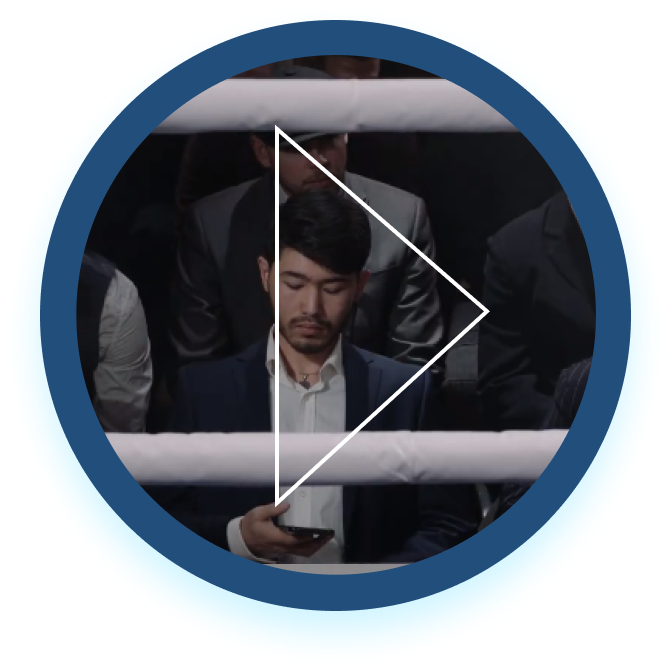
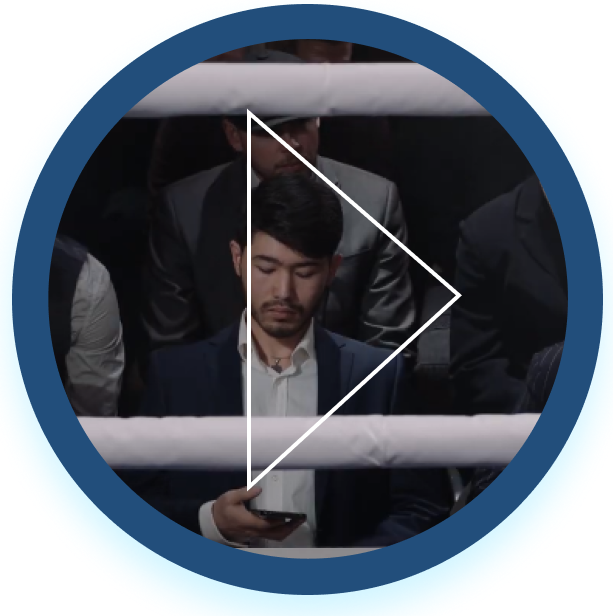
main screen ui

diff --git a/build/css/all_style.css b/build/css/all_style.css
@@ -86,4 +86,4 @@
  * Add the correct display in IE 10+.
  */template{display:none}/**
  * Add the correct display in IE 10.
- */[hidden]{display:none}body{max-width:100%;overflow-x:hidden}*,*:after,*:before{box-sizing:border-box;font-family:'Montserrat',sans-serif;padding:0;margin:0;text-decoration:none;color:inherit;max-width:100%;font-weight:300;outline:none}ul li{list-style:none}.wrap{width:100%;display:-webkit-box;display:flex;-webkit-box-orient:vertical;-webkit-box-direction:normal;flex-direction:column;-webkit-box-align:center;align-items:center}.container{width:100%;max-width:1620px}.container_small{max-width:1330px}.btn_defaul{background:#78A32F;border-radius:3px;padding:15px 25px;color:#fff;font-weight:bold;font-size:16px;-webkit-transition:.3s;transition:.3s}.btn_defaul:hover{-webkit-transform:scale(1.05);transform:scale(1.05);-webkit-transition:.3s;transition:.3s}.text_xs{font-size:18px}.text_s{font-size:24px}.text_m{font-size:30px}.text_l{font-size:36px}.text_xl{font-size:48px}header{display:-webkit-box;display:flex;-webkit-box-pack:center;justify-content:center;position:absolute;height:100px;position:absolute;left:0;top:0;color:#fff}.header-content{display:-webkit-box;display:flex;-webkit-box-align:center;align-items:center;-webkit-box-pack:justify;justify-content:space-between}.header-content .logo-lang{display:-webkit-box;display:flex;-webkit-box-align:center;align-items:center}.header-content .logo-lang__logo{margin-right:50px}.header-content .nav-menu__list{display:-webkit-box;display:flex}.header-content .nav-menu__item{margin-right:50px;-webkit-transition:.3s;transition:.3s}.header-content .nav-menu__item:hover{-webkit-transform:scale(1.05);transform:scale(1.05);-webkit-transition:.3s;transition:.3s}.header-content .nav-menu__item a{font-weight:normal}.header-content .nav-menu__item:last-child{margin-right:0}.main{height:100vh;background:url("../img/mainBG.png");background-size:cover;color:#fff;padding-top:210px}
+ */[hidden]{display:none}body{max-width:100%;overflow-x:hidden}*,*:after,*:before{box-sizing:border-box;font-family:'Roboto',sans-serif;padding:0;margin:0;text-decoration:none;color:inherit;max-width:100%;font-weight:300;outline:none}ul li{list-style:none}.wrap{width:100%;display:-webkit-box;display:flex;-webkit-box-orient:vertical;-webkit-box-direction:normal;flex-direction:column;-webkit-box-align:center;align-items:center}.container{width:90%;max-width:1620px}.container_small{max-width:1330px}.btn_defaul{background:#78A32F;border-radius:3px;padding:16px 32px;color:#fff;font-weight:bold;font-size:16px;-webkit-transition:.3s;transition:.3s;display:inline-block}.btn_defaul:hover{-webkit-transform:scale(1.05);transform:scale(1.05);-webkit-transition:.3s;transition:.3s}h1,h2,h3,h4,h5,h6,p,span{cursor:default}.text_xs{font-size:18px}.text_s{font-size:24px}.text_m{font-size:30px}.text_l{font-size:36px}.text_xl{font-size:48px}header{display:-webkit-box;display:flex;-webkit-box-pack:center;justify-content:center;position:absolute;height:100px;position:absolute;left:0;top:0;color:#fff;z-index:2}.header-content{display:-webkit-box;display:flex;-webkit-box-align:center;align-items:center;-webkit-box-pack:justify;justify-content:space-between;max-width:1780px}.header-content .logo-lang{display:-webkit-box;display:flex;-webkit-box-align:center;align-items:center}.header-content .logo-lang__logo{margin-right:50px}.header-content .nav-menu__list{display:-webkit-box;display:flex}.header-content .nav-menu__item{margin-right:50px;-webkit-transition:.3s;transition:.3s}.header-content .nav-menu__item:hover{-webkit-transform:scale(1.05);transform:scale(1.05);-webkit-transition:.3s;transition:.3s}.header-content .nav-menu__item a{font-weight:normal}.header-content .nav-menu__item:last-child{margin-right:0}.cookie{position:fixed;right:70px;bottom:70px;background:#fff;padding:50px;width:330px;height:246px}.cookie__text{color:#526477;font-weight:normal;font-size:14px;line-height:18px;margin-bottom:16px}.cookie__btn{border:1px solid #459CED;border-radius:3px;padding:16px 26px 15px;color:#459CED;text-transform:uppercase;font-weight:bold;font-size:16px;display:inline-block}.main{height:100vh;background:url("../img/mainBG.png");background-size:cover;color:#fff;padding-top:210px;position:relative}.main .video-btn{position:absolute;left:50%;top:50%;-webkit-transform:translate(-50%, -50%);transform:translate(-50%, -50%);width:35%;max-width:640px}.main .video-btn img{width:100%}.main-content__title{font-weight:800;font-size:80px;line-height:96px;margin-bottom:35px}.main-content__sub-title{margin-bottom:45px;max-width:360px;line-height:29px}.main-content__text-block{max-width:700px;position:relative}

diff --git a/build/index.html b/build/index.html
@@ -4,7 +4,8 @@
     <link rel="shortcut icon" href="" type="image/png"/>
     <title>title</title>
     <link rel="stylesheet" type="text/css" href="css/all_style.css"/>
-    <link href="https://fonts.googleapis.com/css2?family=Montserrat:wght@200;300;400;500;600;700;800;900&amp;display=swap" rel="stylesheet"/>
+    <link rel="preconnect" href="https://fonts.gstatic.com"/>
+    <link href="https://fonts.googleapis.com/css2?family=Roboto:ital,wght@0,400;0,500;0,700;0,900;1,900&amp;display=swap" rel="stylesheet"/>
     <meta charset="utf-8"/>
     <meta name="viewport" content="width=device-width, initial-scale=1.0, maximum-scale=1.0, user-scalable=no"/>
   </head>
@@ -28,10 +29,20 @@
           </ul>
         </nav><a class="btn btn_defaul btn btn_agent" href="#">СТАТЬ АГЕНТОМ</a>
       </div>
+      <div class="cookie"> 
+        <p class="cookie__text">Мы используем файлы cookie для улучшения работы сайта. Соглашаясь, вы подтверждаете то, что проинформиованы об использовании cookies
+        </p><a class="cookie__btn" href="#">ok, Разрешаю куки</a>
+      </div>
     </header>
     <div class="general-page">
       <div class="main wrap">
-        <div class="main-content container">
+        <div class="main-content container"><a class="video-btn" href="#"><img src="./img/video_main-play.png" alt="alt"/></a>
+          <div class="main-content__text-block"> 
+            <h1 class="main-content__title">ЗАРАБАТЫВАЙ ВМЕСТЕ С 1XBET.AGENT
+            </h1>
+            <p class="main-content__sub-title">Cтань агентом, принимай деньги, пополняй счет и делай выводы игрокам или создай свою агентскую сеть и получай комиссию
+            </p><a class="btn btn_defaul btn btn_agent" href="#">СТАТЬ АГЕНТОМ</a>
+          </div>
         </div>
       </div>
     </div>

diff --git a/src/css/header.sass b/src/css/header.sass
@@ -14,6 +14,7 @@ header
         display: flex
         align-items: center
         justify-content: space-between
+        max-width: 1780px
         .logo-lang
             display: flex
             align-items: center
@@ -33,3 +34,27 @@ header
 
                 &:last-child
                     margin-right: 0
+
+.cookie
+    position: fixed
+    right: 70px
+    bottom: 70px
+    background: #fff
+    padding: 50px
+    width: 330px
+    height: 246px
+    &__text
+        color: #526477
+        font-weight: normal
+        font-size: 14px
+        line-height: 18px
+        margin-bottom: 16px
+    &__btn
+        border: 1px solid #459CED
+        border-radius: 3px
+        padding: 16px 26px 15px
+        color: #459CED
+        text-transform: uppercase
+        font-weight: bold
+        font-size: 16px
+        display: inline-block

diff --git a/src/css/main_screen.sass b/src/css/main_screen.sass
@@ -1,0 +1,29 @@
+.main
+    height: 100vh
+    background: url('../img/mainBG.png')
+    background-size: cover
+    color: #fff
+    padding-top: 210px
+    position: relative
+    .video-btn
+        position: absolute
+        left: 50%
+        top: 50%
+        transform: translate(-50%,-50%)
+        width: 35%
+        max-width: 640px
+        img
+            width: 100%
+    &-content
+        &__title
+            font-weight: 800
+            font-size: 80px
+            line-height: 96px
+            margin-bottom: 35px
+        &__sub-title
+            margin-bottom: 45px
+            max-width: 360px
+            line-height: 29px
+        &__text-block
+            max-width: 700px
+            position: relative

diff --git a/src/css/style.sass b/src/css/style.sass
@@ -4,7 +4,7 @@ body
 
 *, *:after, *:before
 	box-sizing: border-box
-	font-family: 'Montserrat', sans-serif
+	font-family: 'Roboto', sans-serif
 	padding: 0
 	margin: 0
 	text-decoration: none
@@ -25,7 +25,7 @@ ul
 	// position: relative
 
 .container
-	width: 100%
+	width: 90%
 	max-width: 1620px
 	&_small
 		max-width: 1330px
@@ -33,14 +33,18 @@ ul
 .btn_defaul
 	background: #78A32F
 	border-radius: 3px
-	padding: 15px 25px
+	padding: 16px 32px
 	color: #fff
 	font-weight: bold
 	font-size: 16px
 	transition: .3s
+	display: inline-block
 	&:hover
 		transform: scale(1.05)
 		transition: .3s
+
+h1,h2,h3,h4,h5,h6,p,span
+	cursor: default
 
 .text
 	&_xs
